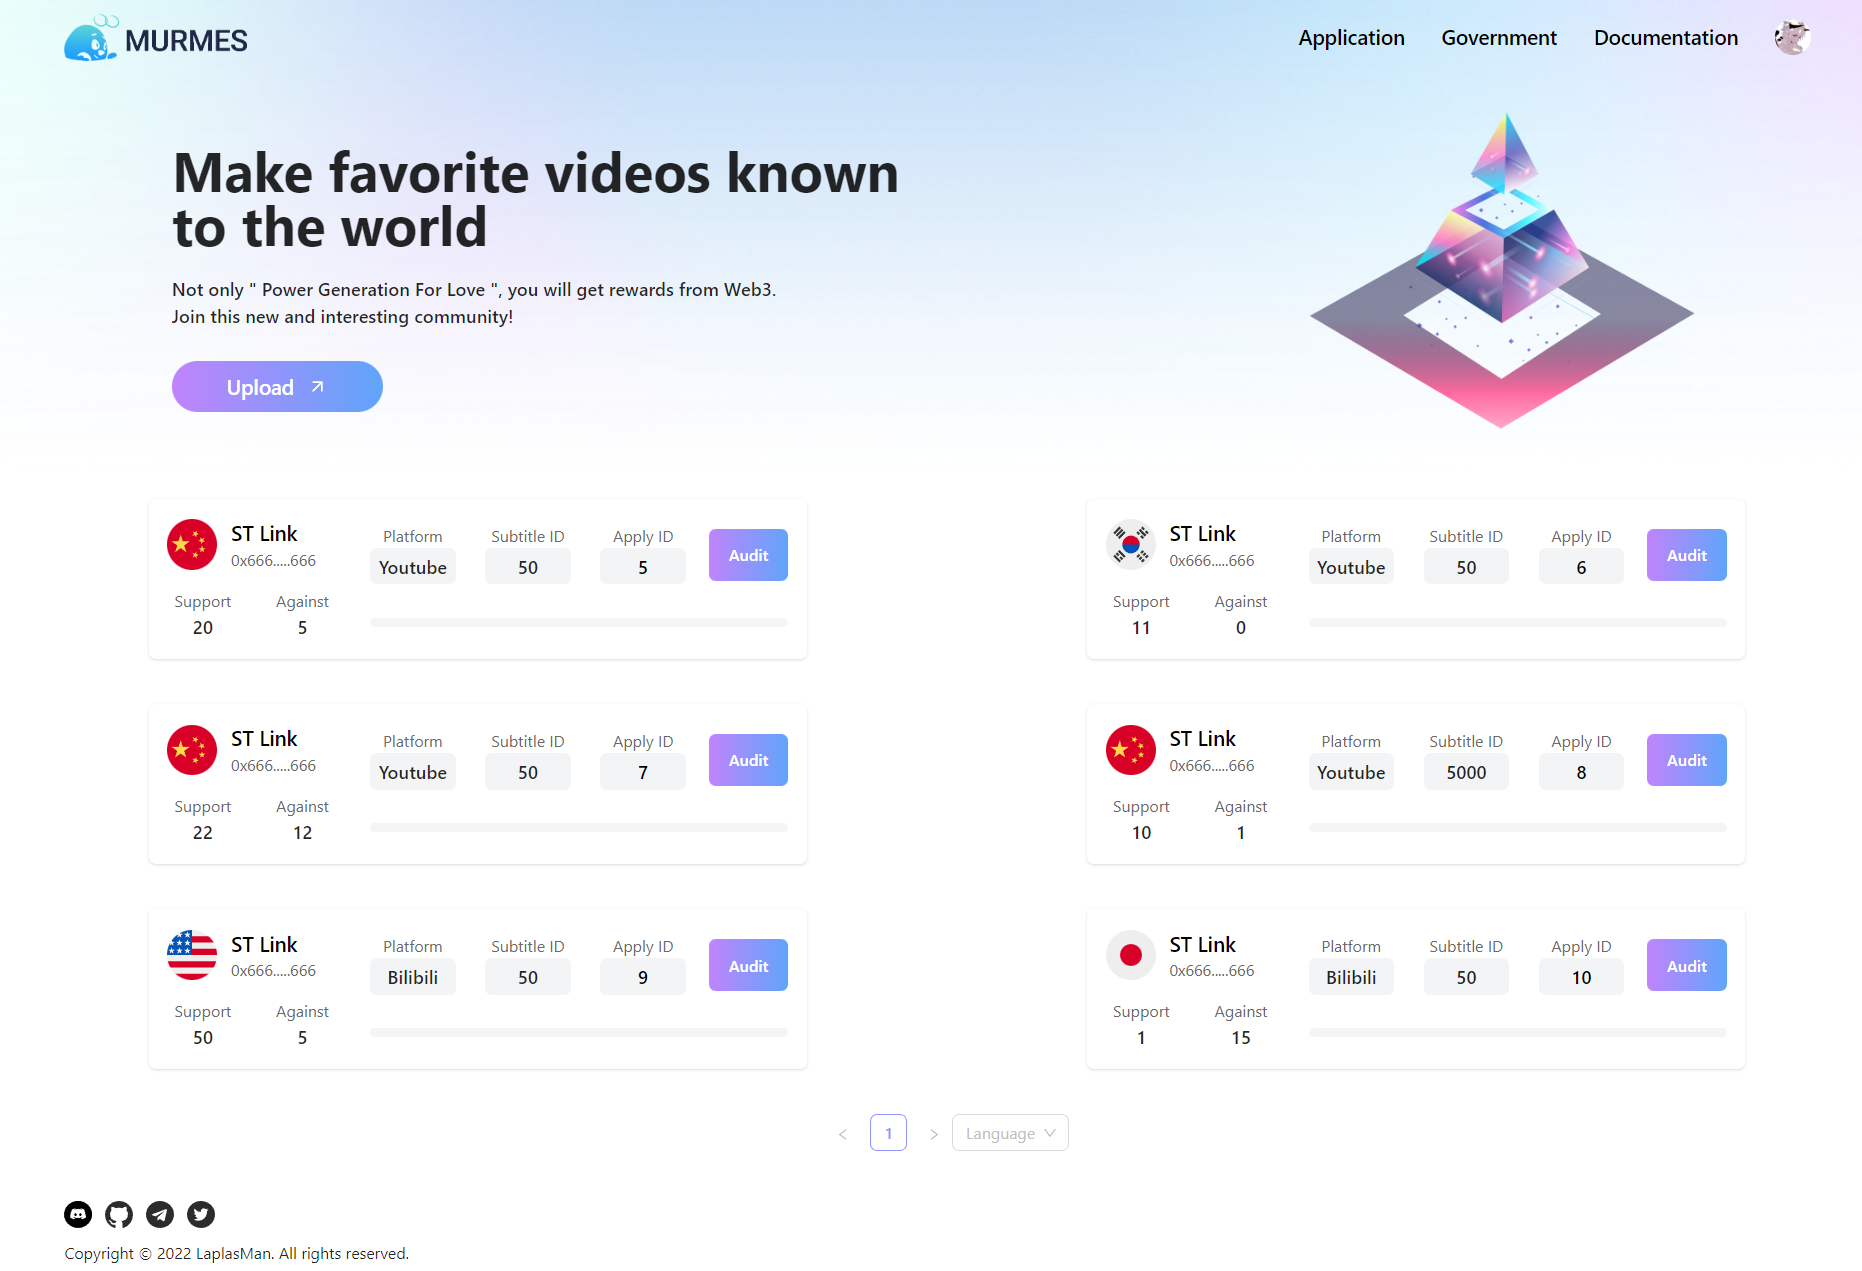
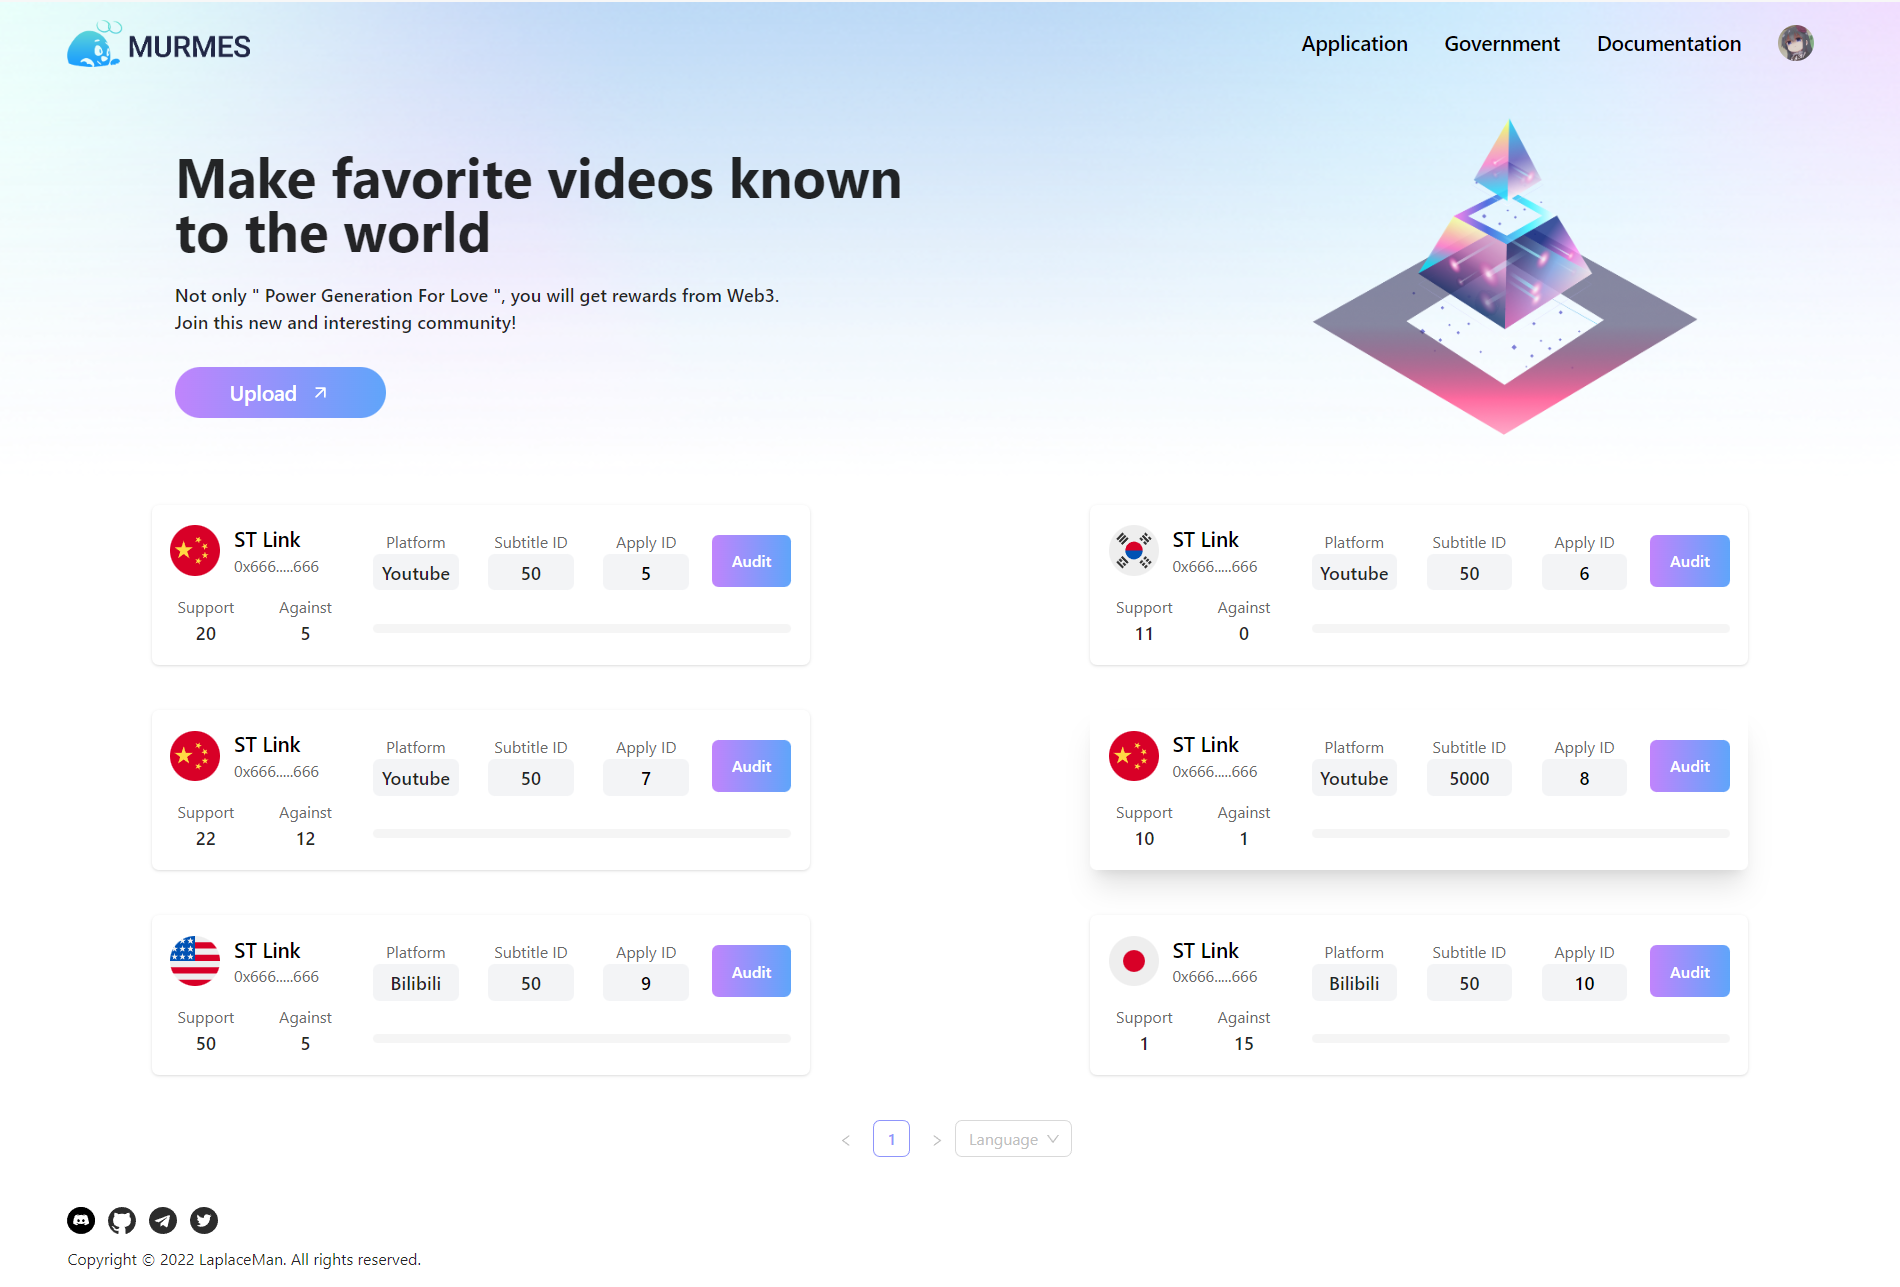
v0.2.1

diff --git a/src/components/Footer/index.tsx b/src/components/Footer/index.tsx
@@ -24,7 +24,7 @@ const DefaultFooter = () => {
         )}
       </div>
       <div className="flex text-sm mt-3">
-        Copyright © 2022 LaplasMan. All rights reserved.
+        Copyright © 2022 LaplaceMan. All rights reserved.
       </div>
     </div>
   );
